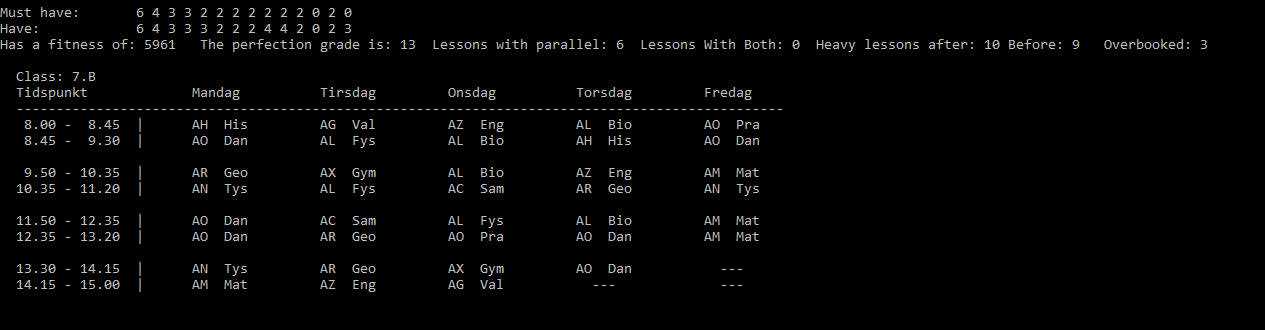
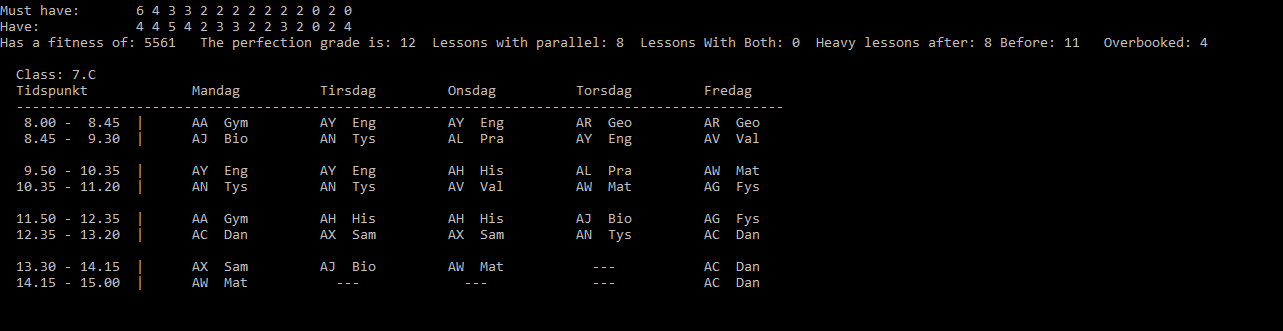
fuck

diff --git a/Rapport/partials/chapters/fitnesstest.tex b/Rapport/partials/chapters/fitnesstest.tex
@@ -5,29 +5,29 @@ Skemaernes fitness er beregnet ud fra værdierne vist på figur~\ref{fitnessvalu
 \caption{Billede over de fitness værdier skemaerne bliver tildelt, i tilfælde af at de opfylder visse parametre}
 \label{fitnessvalues}
 \end{figure}
-De forskellige værdier kan godt give trække ned eller give positive versioner mere end en gang. Det vil sige at, hvis der er to steder på skemaet hvor der er en lærer der er overbooked giver det -2000 i fitness.
-I den første test, undersøges det om fitnessen udregnes korrekt. De nedenstående skemaer er generet gennem softwareløsningen. De tre skemaer er alle skemaer for 7.B, de skal altså derfor alle have det samme antal af timer. 
-I det første skema har 7.B alle det antal af timer de skal have, det kan ses på perfection grade 13, hvis de skemaet havde for lidt lektioner ville denne perfection grade blive lavere. Dette skema har dog for mange af nogle lektioner. Dette kan observeres i Must have og Have, hvor fagene står i følgende rækkefølge dansk, matematik, engelsk, tysk, fysik/kemi, historie, samfundsfag, valgfag, geografi, biologi, idræt, kristendom, praktiske fag og fri timer til sidst. I det første skema er der tre fag, hvor der er for mange lektioner, navnlig fysik, hvor der er en lektion for meget, geografi hvor der er to lektioner for meget og biologi hvor der er to for meget. Dette har negativ indflydelse på skemaet.
-Skemaet positive fitness er en kombination af lessons with parallel, som er det antal af lektioner der foregår på samme tid som en af parallelklasserne. Dette skema har dog ingen lektioner på sammen tid med begge parallelklasser. Det der giver dette skema mindre i fitness, er at det har ’tunge’ fag som ligger over middag, nemlig 10. Derudover er lærerne også overbooked 3 gange i dette skema, det vil sige at der er tre tilfælde, hvor en af klassens lærer, har en eller flere lektioner på samme tid. Skemaets samlede fitness er 5961. 
+De forskellige fitnessparametre kan godt give negative eller give positive værdier mere end en gang. Det vil sige at, hvis der er to steder på skemaet, hvor der er en lærer der er overbooked giver det -2000 i fitness to gange.
+I denne test, undersøges det om fitnessen udregnes korrekt. De nedenstående skemaer er generet gennem softwareløsningen. De tre skemaer er alle skemaer for 7.C, de skal altså derfor alle have det samme antal af timer og de samme fag. 
+I det første skema mangler 7.C to dansk lektioner, det kan ses på at perfection graden er  på 12, hvis skemaet havde opfyldt alle krav om timeantal, ville perfection graden have været 13. Udover at der mangler to dansk lektioner har dette skema også for mange af nogle lektioner. Dette kan observeres i Must have og Have, hvor fagene står i følgende rækkefølge dansk, matematik, engelsk, tysk, fysik/kemi, historie, samfundsfag, valgfag, geografi, biologi, idræt, kristendom, praktiske fag og fri timer til sidst. I det første skema er der fem fag, hvor der er for mange lektioner, navnlig engelsk, hvor der er to lektioner for meget, tysk hvor der er en lektion for meget, historie hvor der er en for meget, samfundsfag hvor der er en for meget og biologi hvor der er en for meget. Dette har negativ indflydelse på skemaet.
+Skemaets positive fitness er en kombination af lessons with parallel, som er det antal af lektioner der foregår på samme tid som en af parallelklasserne og lessons with both, hvor der er mulighed for samarbejde mellem alle tre parallelklasser på en gang. Dette skema har otte lektioner, hvor det er muligt at arbejde sammen med en a parallelklasserne. Dette skema har dog ingen lektioner på sammen tid med begge parallelklasser. Derudover får dette skema mindre i fitness, ved at det har ’tunge’ fag som ligger over middag. I dette skema ligger er der otte tunge fag, som ligger efter middag. Derudover er lærerne også overbooked fire gange i dette skema, det vil sige at der er fire tilfælde, hvor en af klassens lærer, har en eller flere lektioner på samme tid. Skemaets samlede fitness er 5561. 
 \begin{figure}[!h]
 \includegraphics[width=\textwidth]{partials/graphics/fitness1.png}
 \caption{Billede af et generet skema}
 \label{fitness1}
 \end{figure}
 
-Det andet skema har også en perfction grade på 13, alle kravene for antallet fag er altså opfyldt. Der er dog to fag hvor der er en lektion for meget, faget for disse lektioner er engelsk, hvor der er en lektion for meget og geografi, hvor der er en lektion for meget. I skemaet er der ti fælles lektioner med parallel klasserne, der er dog kun 2 med begge parallelklasser. På skemaet er der ti lektioner med tunge fag over middag. Der er en lektion hvor en lærer har mere end en lektion på samme tidspunkt. Dette skemas samlede fitness er 8631.
+Det andet skema har en perfction grade på 13, alle kravene for antallet af lektioner for de forskellige fag er altså opfyldt. Der er dog tre fag hvor der er en lektion for meget, fagene for disse lektioner er samfundsfag, hvor der er en lektion for meget, geografi, hvor der er en lektion for meget og praktiske fag, hvor der er to lektioner for meget. I skemaet er der tre fælles lektioner med parallel klasserne, der er dog ingen lektioner, hvor der er mulighed for samarbejde med begge parallelklasser på samme tid. På skemaet er der syv lektioner med tunge fag over middag. Der er to steder, hvor en lærer er overbookedt. Dette skemas samlede fitness er 10341.
 \begin{figure}[!h]
 \includegraphics[width=\textwidth]{partials/graphics/fitness2.png}
 \caption{Billede af et generet skema}
 \label{fitness2}
 \end{figure}
 
-Perfection graden er også 13 i det tredje skema, der er altså ikke for lidt lektioner af nogle fag. Der er dog fire fag hvor der er for mange lektioner. Disse fag er dansk, hvor der er en lektion for meget, tysk, hvor der er en lektion for meget, geografi, hvor der er en for meget og biologi hvor der er en for meget. På dette skema er der fire lektioner, hvor der er mulighed for at samarbejde med en parallelklasse, der er dog ingen lektioner, hvor der er mulighed for at samarbejde med begge parallelklasser. På det tredje skema er der otte gange, hvor et tungt fag ligger over middag, dette er det mindste antal ud af de tre skemaer. Det forekommer ingen gang at lærerne i det tredje skema har to planlagte skemaer på samme tid. 
+Perfection graden er 13 i det tredje skema, der er altså ikke for lidt lektioner af nogle fag. Der er dog tre fag hvor der er for mange lektioner. Disse fag er dansk hvor der er en lektion for meget, samfundsfag hvor der er en lektion for meget og praktiske fag hvor der er en for meget. På dette skema er der fire lektioner, hvor der er mulighed for at samarbejde med en parallelklasse i otte af skemaets lektioner, der er en lektion, hvor der er mulighed for at samarbejde med begge parallelklasser sammentidigt. På det tredje skema er der fem gange, hvor et tungt fag ligger over middag, dette er det mindste antal ud af de tre skemaer. Det forekommer ingen gang at lærerne i det tredje skema har to planlagte skemaer på samme tid. 
 \begin{figure}[!h]
 \includegraphics[width=\textwidth]{partials/graphics/fitness3.png}
 \caption{Billede af et generet skema}
 \label{fitness3}
 \end{figure}
 
-På tabellen med fitnessværdier, kan man se at fitnessværdien bliver trukket meget ned af have lærere der er ’overbooked,’ dette passer med at det tredje skema er det bedste da det ikke har nogle lærere der er ’overbooke.’ Derudover er det også den tredje der har mindst tunge lektioner over middag, hvilket også trækker de andre to skemaer ned. På det sidste skema er der dog ikke så meget mulighed for samarbejde på tværs af parallelklasserne. Dette kan dog skyldes at de andre to skemaer er har lærere der er ’overbooked,’ og derfor har lavet skemaet således at det er en ’overbooked’ lærer der har mulighed for at arbejde på tværs af parallelklasserne.
+På tabellen med fitnessværdier, kan man se at fitnessværdien bliver trukket meget ned af have lærere der er ’overbooked,’ dette passer med at det tredje skema er det bedste da det ikke har nogle lærere der er ’overbooked’. Derudover er det også den tredje der har mindst tunge lektioner over middag, hvilket også trækker de andre to skemaer ned. Det sidste skema er også det eneste skema, hvor der er mulighed for samarbejde mellem alle parallelklasserne sammentidigt. 
 Ud fra tabellen med fitnessværdierne og undersøgelsen af de tre skemaer, kan det konkluderes at fitnessfunktionen fungerer som den skal. 
